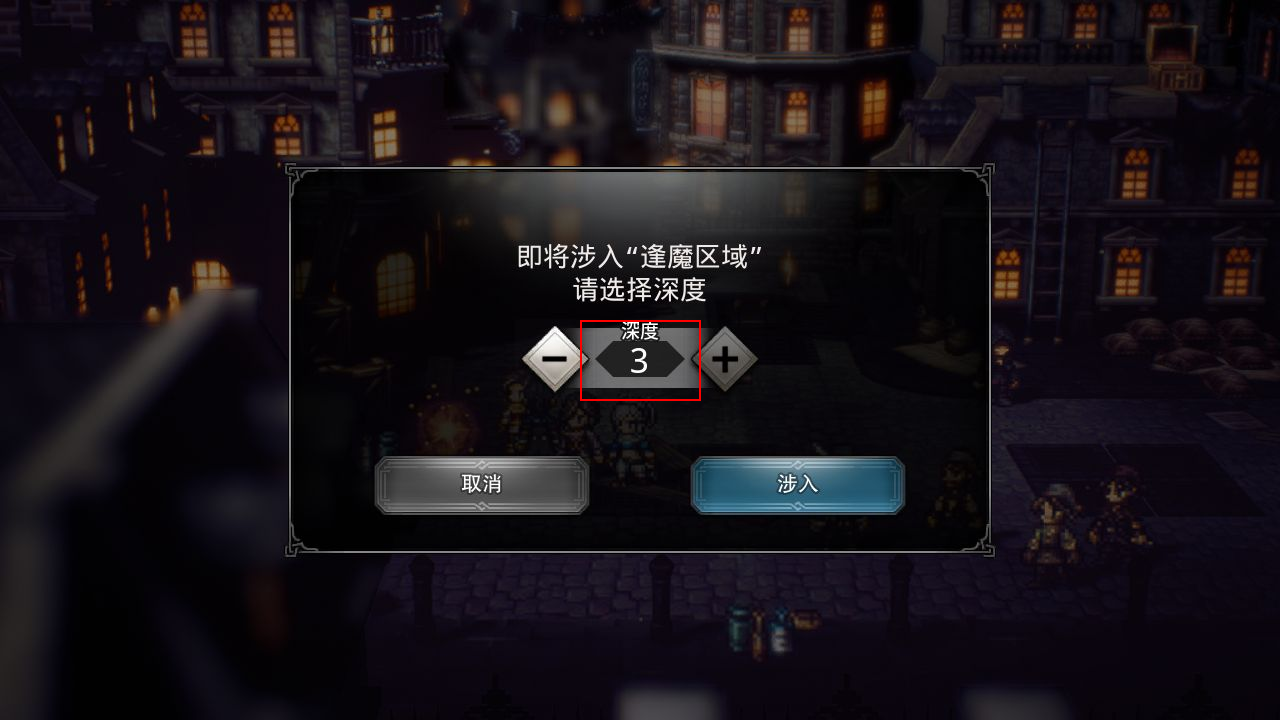
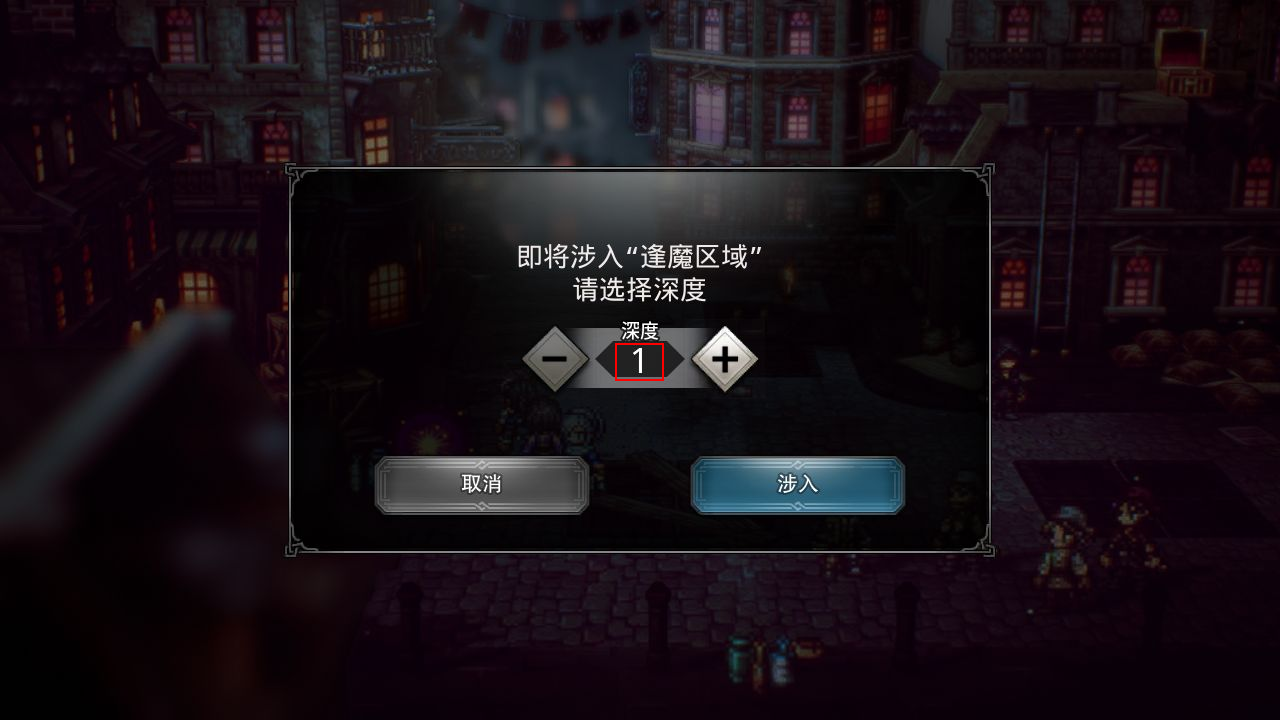
feat:逢魔选择难度与进去地图

diff --git a/src/core/ocr_handler.py b/src/core/ocr_handler.py
@@ -19,6 +19,7 @@ class OCRHandler:
             lang=config.ocr.lang,
             show_log=False
         )
+        self.ocr_digit = PaddleOCR(rec_char_type='digit',use_angle_cls=config.ocr.use_angle_cls,lang='en')
         self.threshold = config.ocr.threshold
         self.device_manager = device_manager
         logger.info("OCR handler initialized")
@@ -124,6 +125,8 @@ class OCRHandler:
 
             detected_texts = []
             for line in result:
+                if line is None:
+                    continue
                 for item in line:
                     text = item[1][0]
                     confidence = item[1][1]
@@ -157,11 +160,13 @@ class OCRHandler:
             logger.error(f"match_click_text 执行异常: {e}")
             return False
 
-    def recognize_text(self, image:Union[Image.Image, np.ndarray, str, None] = None, region: Optional[Tuple[int, int, int, int]] = None):
+    def recognize_text(self, image:Union[Image.Image, np.ndarray, str, None] = None, region: Optional[Tuple[int, int, int, int]] = None, rec_char_type: str = 'all', scale: int = 2):
         """
         识别图片中的文字，可指定识别区域。
         :param image: 支持 PIL.Image、OpenCV numpy.ndarray、图片路径
         :param region: (x1, y1, x2, y2) 可选，指定识别区域坐标，默认全图
+        :param rec_char_type: 'all' 或 'digit'
+        :param scale: region有值时放大倍数，默认2
         :return: 识别结果列表
         """
         try:
@@ -181,23 +186,34 @@ class OCRHandler:
                 # 裁剪
                 if isinstance(image, Image.Image):
                     image = image.crop(region)
+                    # 放大
+                    if scale > 1:
+                        w, h = image.size
+                        image = image.resize((w * scale, h * scale), Image.LANCZOS)
                 elif isinstance(image, np.ndarray):
                     x1, y1, x2, y2 = region
                     image = image[y1:y2, x1:x2]
+                    # 放大
+                    if scale > 1:
+                        image = cv2.resize(image, ((x2-x1)*scale, (y2-y1)*scale), interpolation=cv2.INTER_LANCZOS4)
                 else:
                     logger.warning("region参数仅支持PIL.Image或np.ndarray类型图片裁剪")
             # 如果是 PIL.Image，先转成 OpenCV 格式（BGR）
             if isinstance(image, Image.Image):
                 image = cv2.cvtColor(np.array(image), cv2.COLOR_RGB2BGR)
-
-            result = self.ocr.ocr(image, cls=True)
+            if rec_char_type == 'digit':
+                result = self.ocr_digit.ocr(image, cls=True)
+            else:
+                result = self.ocr.ocr(image, cls=True)
             
             if result is None or not result:
                 logger.warning("OCR无结果")
                 return []
             
             processed_results = []
-            for line in result:
+            for line in result:          
+                if line is None:
+                    continue
                 for item in line:
                     confidence = item[1][1]
                     if confidence >= self.threshold:

diff --git a/src/common/world.py b/src/common/world.py
@@ -183,7 +183,7 @@ class World:
         return None
     
     def read_fengmo_depth(self):
-        text_list = self.ocr_handler.recognize_text(region=(580, 320, 700, 400) )
+        text_list = self.ocr_handler.recognize_text(region=(615, 343, 663,380), rec_char_type='digit',scale=5)
         if len(text_list) == 0:
             return
         # 可以转为数字的直接返回
@@ -193,6 +193,14 @@ class World:
             except:
                 pass
         return None
+    
+    def do_fengmo_depth(self,op:str):
+        if op == "add":
+            self.device_manager.click(724,360)
+        elif op == "sub":
+            self.device_manager.click(555,360)
+        else:
+            raise ValueError(f"无效的操作: {op}")
 
     def open_minimap(self):
         """
@@ -271,7 +279,7 @@ class World:
         logger.info("点击旅馆门口")
         self.device_manager.click(*door_pos)
 
-    def go_fengmo(self):
+    def go_fengmo(self,depth:int):
         """
         前往逢魔
         """
@@ -292,12 +300,31 @@ class World:
             return
         self.click_tirm(2)
         # 再次确认寻找逢魔入口
-        fengmo_pos = self.app_manager.sleep_until(self.find_fengmo_point)
-        if not fengmo_pos:
+        pos_list = self.app_manager.sleep_until(self.find_fengmo_point)
+        if pos_list is None or len(pos_list) == 0:
             return
-        # 点击逢魔入口
-        self.device_manager.click(*fengmo_pos)
-        # 选择深度
-        self.app_manager.sleep_until(lambda: self.ocr_handler.match_texts(["选择深度"]))
+        # 点击逢魔入口 pos_list type is list[tuple[int, int, float
+        fengmo_pos = pos_list[0]
+        self.device_manager.click(int(fengmo_pos[0]), int(fengmo_pos[1]))
+        self.select_fengmo_mode(depth)
         # 涉入
         self.app_manager.sleep_until(lambda: self.ocr_handler.match_click_text(["涉入"],region=(760,465,835,499)))
+
+    def select_fengmo_mode(self,depth:int):
+        """
+        选择逢魔模式
+        """
+        self.app_manager.sleep_until(lambda: self.ocr_handler.match_texts(["选择深度"]))
+        current_depth = self.read_fengmo_depth()
+        while current_depth != depth:
+            time.sleep(0.1)
+            current_depth = self.read_fengmo_depth()
+            if current_depth==depth:
+                break
+            if current_depth is None:
+                continue
+            if current_depth < depth:
+                self.do_fengmo_depth("add")
+            else:
+                self.do_fengmo_depth("sub")
+    

diff --git a/src/modes/fengmo.py b/src/modes/fengmo.py
@@ -9,6 +9,7 @@ from common.world import World
 from core.device_manager import DeviceManager
 from core.ocr_handler import OCRHandler
 from common.config import config
+from PIL import Image
 
 
 class FengmoMode:
@@ -29,21 +30,19 @@ class FengmoMode:
         self.world = World(device_manager, ocr_handler, self.app_manager)
         # 统一通过config访问所有配置
         self.fengmo_config = config.fengmo
-        city_name = self.fengmo_config.get("city", "newdelsta")
-        cities = config.fengmo_cities.get("cities", {})
-        if not isinstance(cities, dict):
-            raise ValueError("配置文件格式错误，cities不是dict")
-        if city_name not in cities:
-            raise ValueError(f"未找到城市配置: {city_name}")
-        self.city_config = cities[city_name]
+        self.city_name = self.fengmo_config.city
+        self.cities = config.fengmo_cities.get("cities", {})
+        if self.city_name not in self.cities:
+            raise ValueError(f"未找到城市配置: {self.city_name}")
+        self.city_config = self.cities[self.city_name]
+        self.depth = self.fengmo_config.depth
+        self.rest_in_inn = self.fengmo_config.rest_in_inn
 
+        
     def run(self) -> None:
-        # self.app_manager.check_app_alive()
-        # time.sleep(2)
-        # self.world.rest_in_inn()
-        # self.world.go_fengmo()
         while True:
-            depth = self.world.read_fengmo_depth()
-            logger.info(f"当前逢魔深度: {depth}")
+            self.app_manager.check_app_alive()
+            self.world.rest_in_inn()
+            self.world.go_fengmo(self.depth)
             time.sleep(1)
         

diff --git a/src/common/config.py b/src/common/config.py
@@ -1,3 +1,4 @@
+from calendar import c
 import os
 import sys
 import yaml
@@ -26,6 +27,11 @@ class LoggingConfig(BaseModel):
     level: str = "INFO"
     format: str = "{time} {level} {message}"
 
+class FengmoConfig(BaseModel):
+    depth: int = 1
+    rest_in_inn: bool = True
+    city: str = "newdelsta"
+
 class Config:
     def __init__(self, config_dir=None):
         if config_dir is None:
@@ -36,7 +42,7 @@ class Config:
         self.logging = LoggingConfig(**self._load_yaml_with_log(os.path.join(config_dir, "logging.yaml"), name="logging.yaml", fallback=os.path.join(config_dir, "settings.yaml"), key="logging"))
         self.command_interval = self._load_yaml_with_log(os.path.join(config_dir, "settings.yaml"), name="settings.yaml").get("command_interval", 1.0)
         # 兼容fengmo等其他配置
-        self.fengmo = self._load_yaml_with_log(os.path.join(config_dir, "fengmo.yaml"), name="fengmo.yaml")
+        self.fengmo = FengmoConfig(**self._load_yaml_with_log(os.path.join(config_dir, "fengmo.yaml"), name="fengmo.yaml"))
         self.fengmo_cities = self._load_yaml_with_log(os.path.join(config_dir, "fengmo_cities.yaml"), name="fengmo_cities.yaml")
 
     def _load_yaml_with_log(self, path, name=None, fallback=None, key=None):
